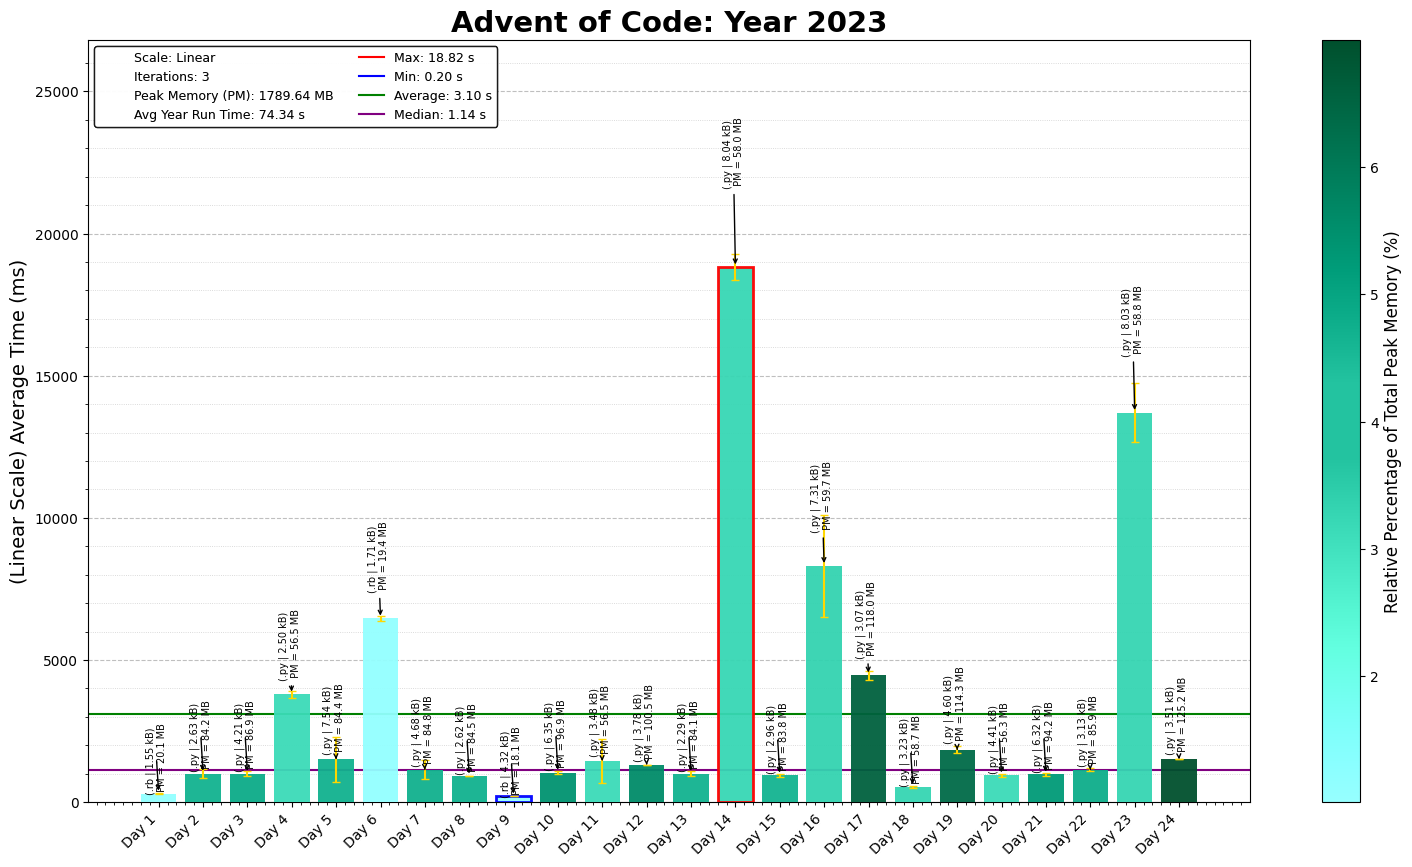
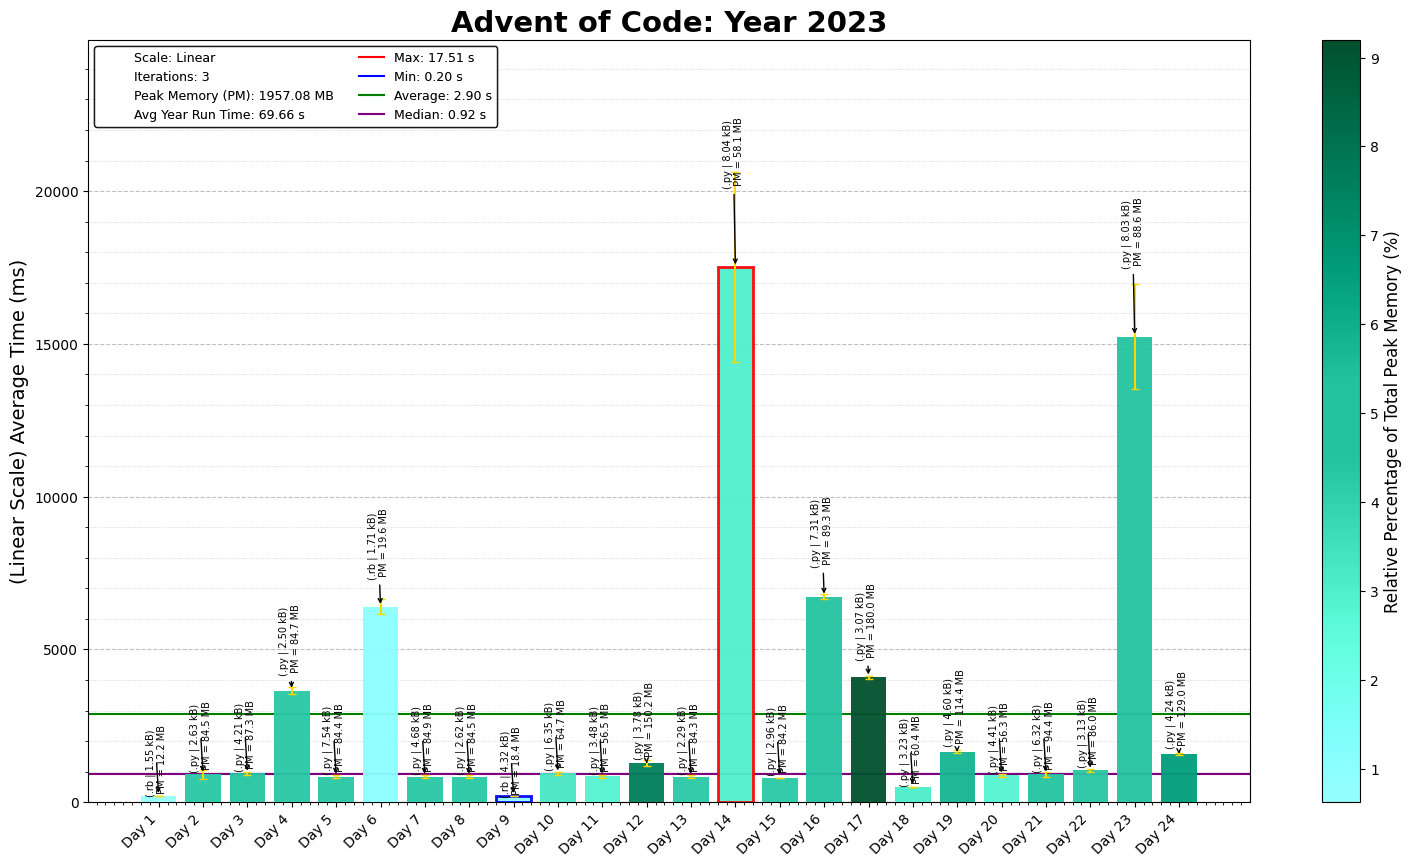
2023 Day 24 P2

diff --git a/2023/24/2023Day24.py b/2023/24/2023Day24.py
@@ -2,13 +2,12 @@
 Solution Started: Jan 15, 2025
 Puzzle Link: https://adventofcode.com/2023/day/24
 Solution by: abbasmoosajee07
-Brief: [Code/Problem Description]
+Brief: [3D Particle Interactions]
 """
 
 #!/usr/bin/env python3
 
 import os, re, copy, time
-import sympy
 import numpy as np
 import pandas as pd
 import matplotlib.pyplot as plt
@@ -32,11 +31,11 @@ def parse_input(input_list: list[str]) -> dict[tuple]:
         particle_data[particle_no] = (position_no, velocity_no)
     return particle_data
 
-def identify_interactions(particle_1: tuple, particle_2: tuple, target_area: tuple) -> int:
+def identify_2d_interactions(particle_1: tuple, particle_2: tuple, target_area: tuple) -> bool:
     min_size, max_size = target_area
     # Unpack particle 1 and particle 2 data
-    ((px_1, py_1, pz_1), (vx_1, vy_1, vz_1)) = particle_1
-    ((px_2, py_2, pz_2), (vx_2, vy_2, vz_2)) = particle_2
+    ((px_1, py_1, _), (vx_1, vy_1, _)) = particle_1
+    ((px_2, py_2, _), (vx_2, vy_2, _)) = particle_2
 
     # Compute slopes (m1 and m2)
     if vx_1 != 0 and vx_2 != 0:  # Ensure no division by zero
@@ -72,7 +71,7 @@ def simulate_all_particles(particle_data: dict, target_area: tuple):
             combo = tuple(sorted((no_1, no_2)))
             if (no_1 != no_2) and (combo not in combos_checked):
                 combos_checked.add(combo)
-                interaction = identify_interactions(properties_1, properties_2, target_area)
+                interaction = identify_2d_interactions(properties_1, properties_2, target_area)
                 if interaction:
                     particle_interactions.add((combo, interaction))
                 count += 1
@@ -80,12 +79,32 @@ def simulate_all_particles(particle_data: dict, target_area: tuple):
                 #     print(f"Count {count} = {time.time() - start_time:.5f}")
     return particle_interactions
 
-test_input = ['19, 13, 30 @ -2,  1, -2', '18, 19, 22 @ -1, -1, -2', '20, 25, 34 @ -2, -2, -4', '12, 31, 28 @ -1, -2, -1', '20, 19, 15 @  1, -5, -3']
+def find_perfect_throw(particle_data: dict) -> tuple:
+    import sympy as sp
 
-target_area = (200_000_000_000_000, 400_000_000_000_000)
+    particles = list(particle_data.keys())
+    first_three_hailstones = []
+    for particle_no in particles[:3]:
+        (px_1, py_1, pz_1), (vx_1, vy_1, vz_1) = particle_data[particle_no]
+        first_three_hailstones.append(tuple((px_1, py_1, pz_1, vx_1, vy_1, vz_1)))
+
+    x, y, z, dx, dy, dz, *time = sp.symbols('x, y, z, dx, dy, dz, t1, t2, t3')
+
+    equations = []  # build system of 9 equations with 9 unknowns
+    for t, h in zip(time, first_three_hailstones):
+        equations.append(sp.Eq(x + t*dx, h[0] + t*h[3]))
+        equations.append(sp.Eq(y + t*dy, h[1] + t*h[4]))
+        equations.append(sp.Eq(z + t*dz, h[2] + t*h[5]))
+
+    solution = sp.solve(equations, (x, y, z, dx, dy, dz, *time)).pop()
+    return solution
 
 particle_data = parse_input(input_data)
-total_interactions  = simulate_all_particles(particle_data, target_area)
+total_interactions  = simulate_all_particles(particle_data, target_area=(2E+14, 4E+14))
 print("Part 1:", len(total_interactions))
 
+thrown_particle = find_perfect_throw(particle_data)
+print("Part 2:", sum(thrown_particle[:3]))
+
 # print(f"Execution Time = {time.time() - start_time:.5f}")
+
